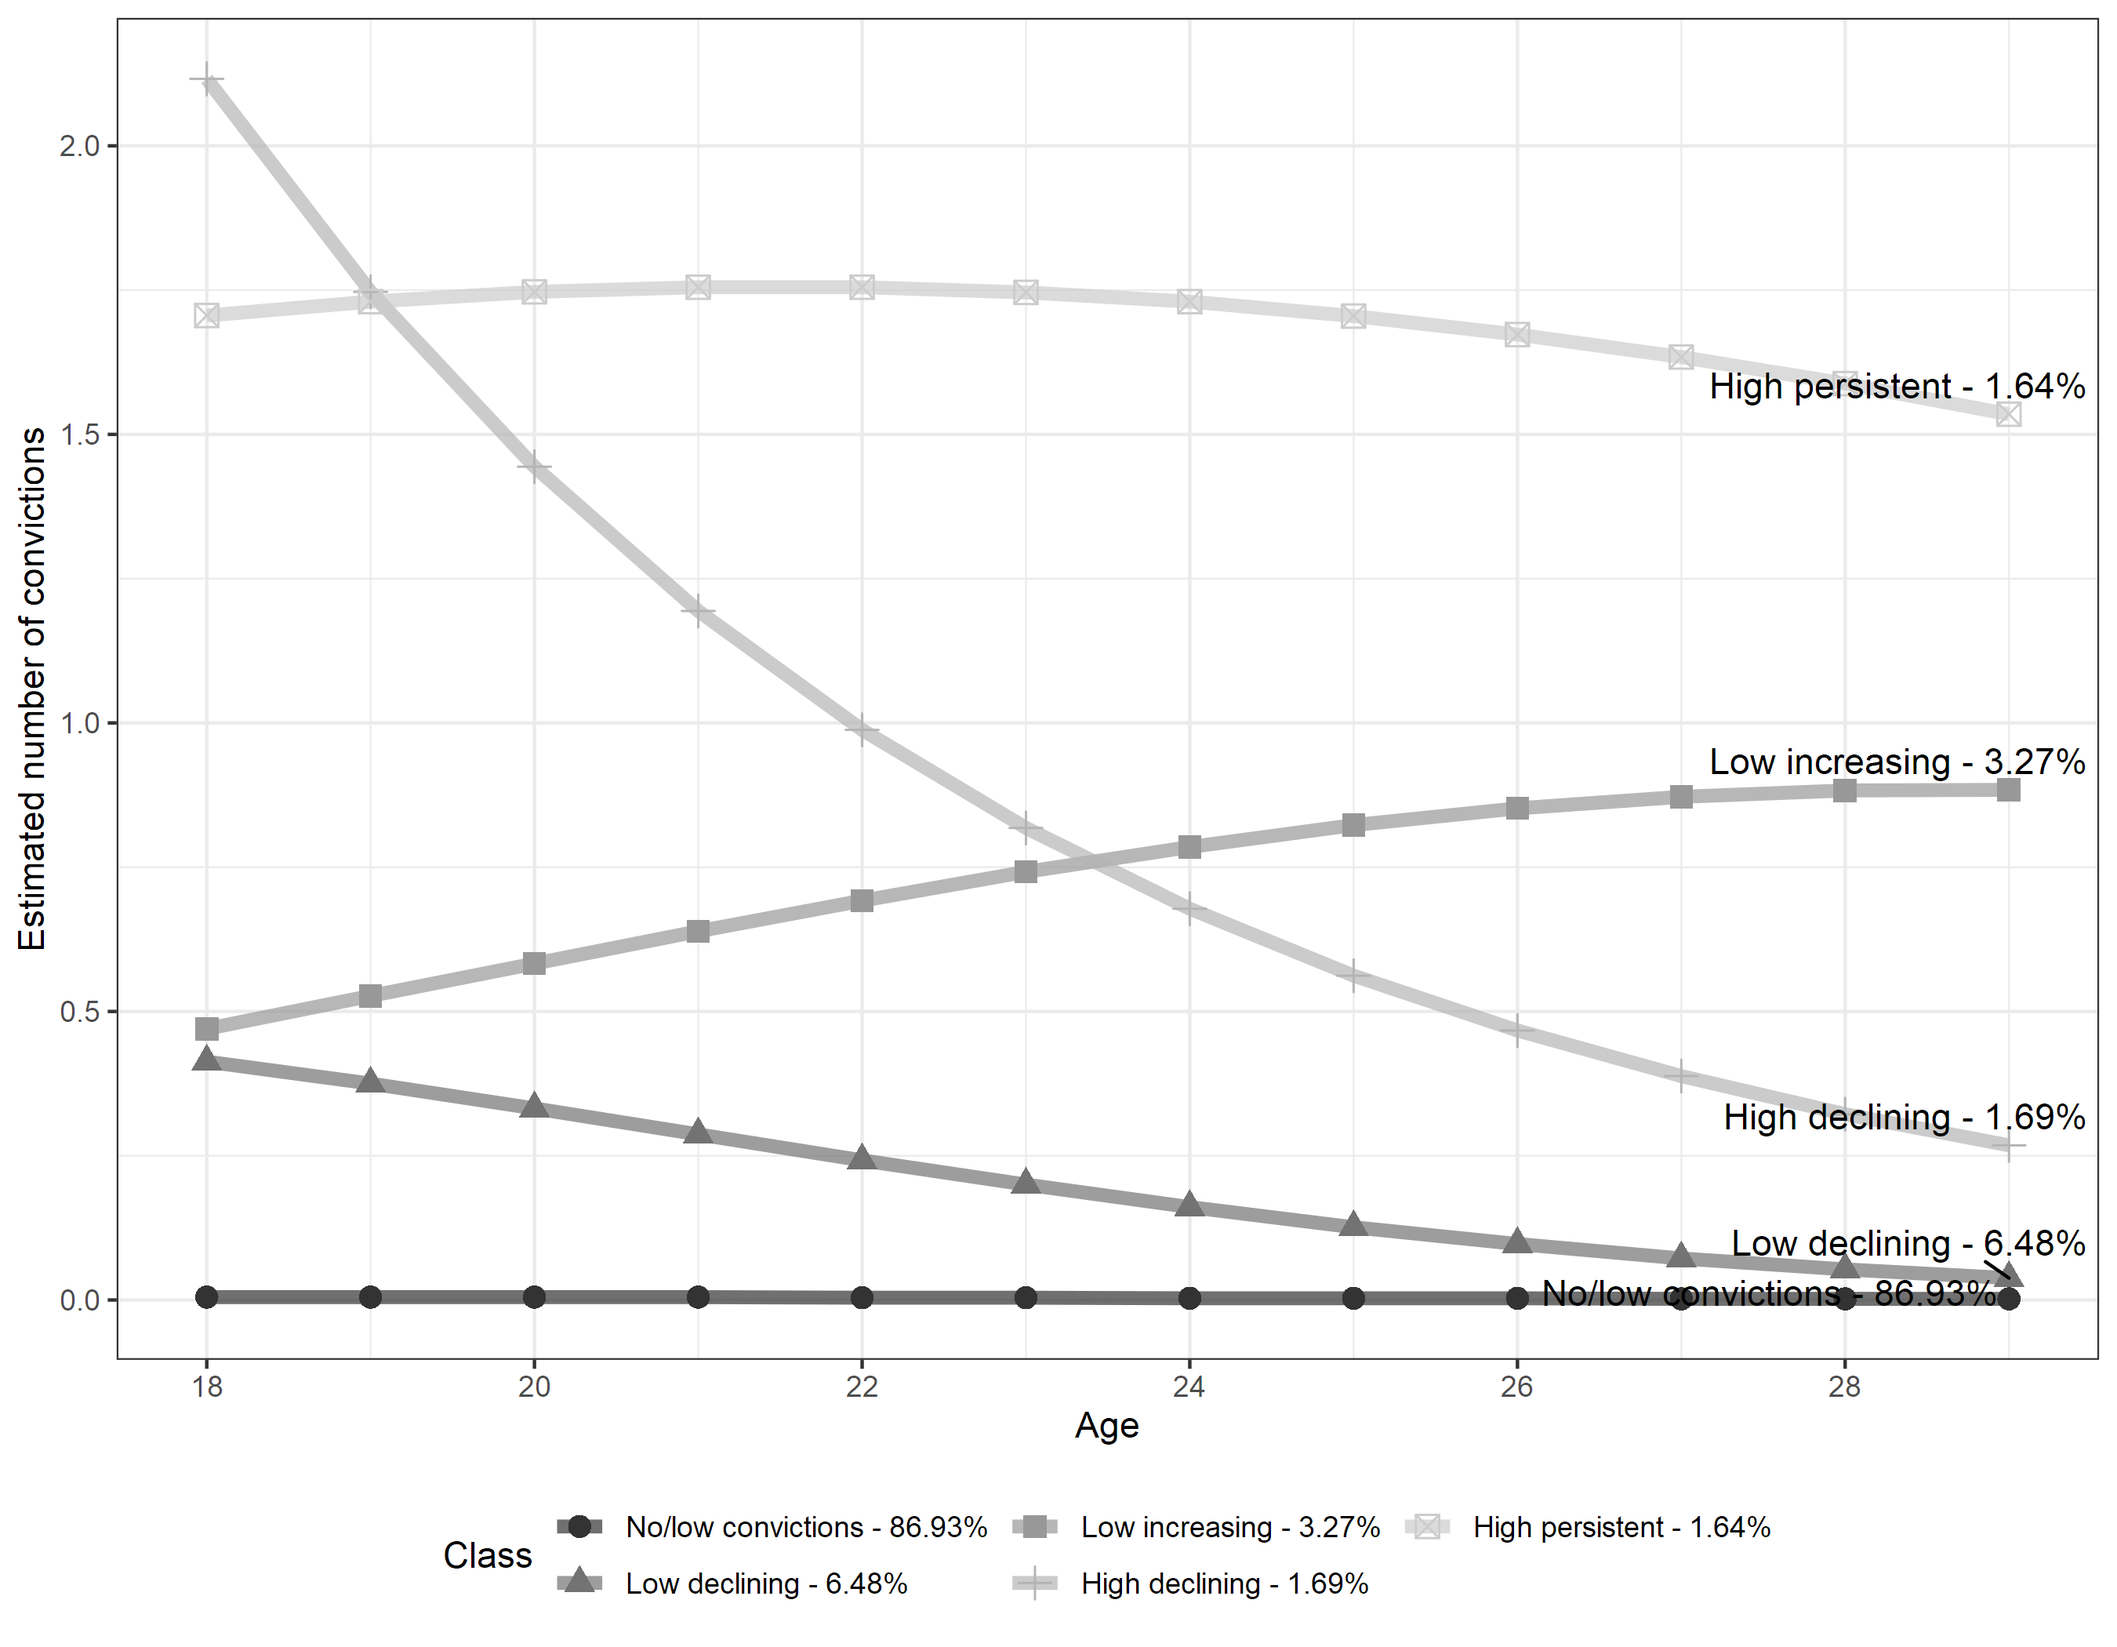
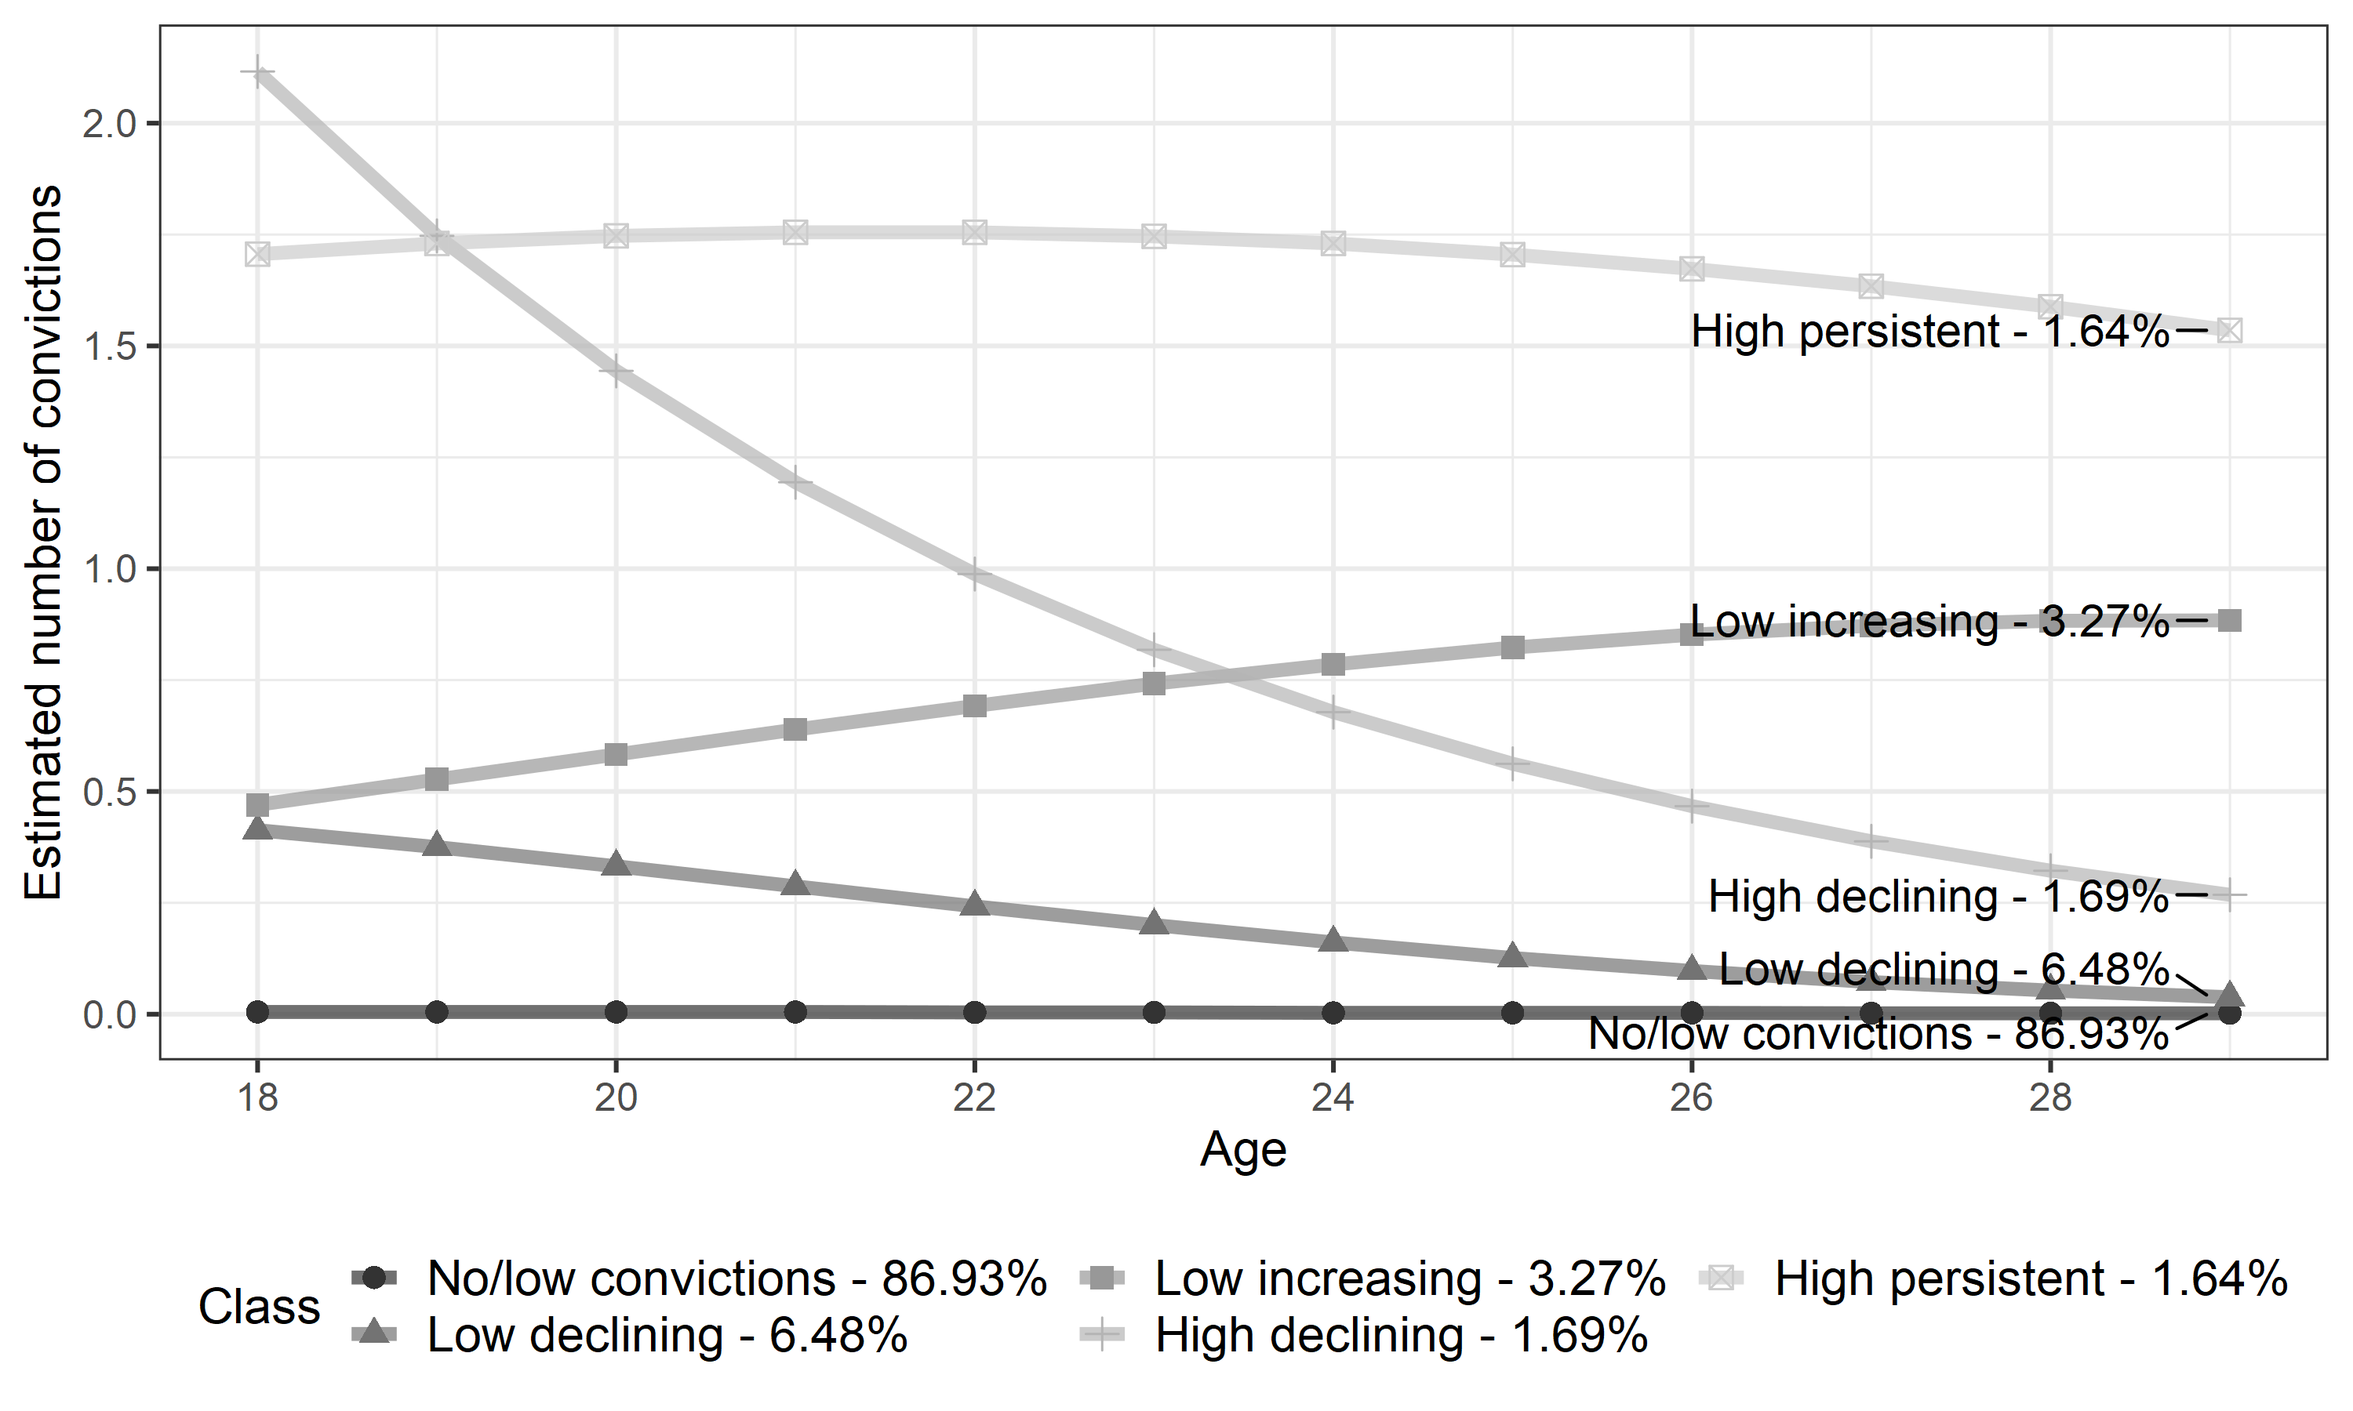
update figs

diff --git a/docs/index.html b/docs/index.html
@@ -15,10 +15,19 @@
 
 
 
-
-
 name: title
-class: center, middle, inverse
+class: center, middle, inverse, my-one-page-font
+
+&lt;style type="text/css"&gt;
+.remark-slide-content {
+    font-size: 25px;
+    padding: 1em 4em 1em 4em;
+}
+.my-one-page-font {
+  font-size: 20px;
+}
+&lt;/style&gt;    
+
 
 # Exploring inequalities in the impact of childhood system contact on adult criminal conviction trajectories by sex and Indigenous status: Evidence from an Australian data linkage project
 
@@ -32,60 +41,130 @@ European Society of Criminology, 2020-09-11
 
 ![](https://www.understanding-inequalities.ac.uk/sites/all/themes/theme935/logo.png)&lt;!-- --&gt;
 
+
+
 ---
 # Research background
-1. A key question in DLCC is try to understand how childhood experiences relate to adult convictions patterns
-2. One key insight from childhood effects literature is that childhood experiences can have cumulative effects on adult convictions
-  i. See in particular the cumulative effect of contact with both youth justice and child protection systems in childhood. 'Crossover children' (Baidawi, 2020:280) who are involved with both youth justice _and_ child projection have "earlier police involvement and more serious criminal justice sanctions"
-1. A second key insight is thatt sex and race/ethnicity are key factors relating to people's criminal justice outcomes, and that the ways in which childhood experiences shape adult outcomes may vary by sex and race/ethnicity. Broidy et al. (2015:145) " theory and research in developmental and life course criminology should pay more attention to the ways that race/ethnicity intersect with gender to frame the life course experiences of offenders... developmental and life course models need to highlight not just the operant developmental dynamics across key life stages or the relevant, age-graded risk and protective factors at play, but also the ways in which gender and race/ethnicity condition these processes both independently and jointly"
-
+1. How do __childhood experiences__ affect __adult convictions__ histories?
+2. Key insight one: childhood experiences affect adult convictions __cumulatively__. Our focus is on 'Crossover children' [(Baidawi, 2020:280)](https://www.tandfonline.com/doi/full/10.1080/0312407X.2019.1686765) who are involved with both youth justice __and__ child projection
+3. Key insight two: the ways in which childhood experiences shape adult outcomes may __vary by both sex and race/ethnicity__ [(Broidy et al. 2015:145)](https://link.springer.com/article/10.1007/s40865-015-0008-z)
 
 ---
 
-# Research question
-How do the cumulative effect of youth justice and child welfare on adults convictions trajectories vary by sex and race/ethnicity?
+class: center, inverse
+
+# How do the cumulative effects of youth justice and child welfare contact on adult convictions trajectories vary by sex and race/ethnicity?
 
 
 ---
 # Data
-- Queensland Cross-sector Research Collaboration (QCRC)
-- Linked data sources from different administrative departments in Queensland, Australia:
+- Comes from __Queensland Cross-sector Research Collaboration__ (QCRC)
+- __Linked data sources__ from different administrative departments in Queensland, Australia:
   - Youth justice
   - Adult justice
   - Child protection
   - Birth register 
   - Marriages
-
+- Cohorts registered born in Queensland in 1983 and 1984, followed to age 29
 
 ---
+class: my-one-page-font
+
 # Measures
 
-```
-## # A tibble: 12 x 4
-##    Variable               Level               Count Proportion
-##    &lt;chr&gt;                  &lt;chr&gt;               &lt;dbl&gt;      &lt;dbl&gt;
-##  1 "Adult conviction"     "Convicted"         16802      20.2 
-##  2 ""                     "Not convicted"     66569      79.8 
-##  3 "Indigenous Status"    "(ever) Indigenous"  4821       0.06
-##  4 ""                     "Non-Indigenous"    78541       0.94
-##  5 "Sex"                  "Female"            40416       0.48
-##  6 ""                     "Male"              42946       0.52
-##  7 "Police Diversion"     "1"                  9264       0.11
-##  8 "Abuse/Neglect"        "1"                  3515       0.04
-##  9 "Youth Justice Charge" "1"                  3306       0.04
-## 10 "OOHC Placement"       "1"                   784       0.01
-## 11 "Youth Detention"      "1"                   469       0.01
-## 12 "Total"                ""                  83371       1
-```
+&lt;table&gt;
+ &lt;thead&gt;
+  &lt;tr&gt;
+   &lt;th style="text-align:left;"&gt; Variable &lt;/th&gt;
+   &lt;th style="text-align:left;"&gt; Level &lt;/th&gt;
+   &lt;th style="text-align:right;"&gt; Count &lt;/th&gt;
+   &lt;th style="text-align:right;"&gt; Proportion &lt;/th&gt;
+  &lt;/tr&gt;
+ &lt;/thead&gt;
+&lt;tbody&gt;
+  &lt;tr&gt;
+   &lt;td style="text-align:left;"&gt; Adult conviction &lt;/td&gt;
+   &lt;td style="text-align:left;"&gt; Convicted &lt;/td&gt;
+   &lt;td style="text-align:right;"&gt; 16802 &lt;/td&gt;
+   &lt;td style="text-align:right;"&gt; 20.20 &lt;/td&gt;
+  &lt;/tr&gt;
+  &lt;tr&gt;
+   &lt;td style="text-align:left;"&gt;  &lt;/td&gt;
+   &lt;td style="text-align:left;"&gt; Not convicted &lt;/td&gt;
+   &lt;td style="text-align:right;"&gt; 66569 &lt;/td&gt;
+   &lt;td style="text-align:right;"&gt; 79.80 &lt;/td&gt;
+  &lt;/tr&gt;
+  &lt;tr&gt;
+   &lt;td style="text-align:left;"&gt; Indigenous Status &lt;/td&gt;
+   &lt;td style="text-align:left;"&gt; Indigenous (ever) &lt;/td&gt;
+   &lt;td style="text-align:right;"&gt; 4821 &lt;/td&gt;
+   &lt;td style="text-align:right;"&gt; 0.06 &lt;/td&gt;
+  &lt;/tr&gt;
+  &lt;tr&gt;
+   &lt;td style="text-align:left;"&gt;  &lt;/td&gt;
+   &lt;td style="text-align:left;"&gt; Non-Indigenous &lt;/td&gt;
+   &lt;td style="text-align:right;"&gt; 78541 &lt;/td&gt;
+   &lt;td style="text-align:right;"&gt; 0.94 &lt;/td&gt;
+  &lt;/tr&gt;
+  &lt;tr&gt;
+   &lt;td style="text-align:left;"&gt; Sex &lt;/td&gt;
+   &lt;td style="text-align:left;"&gt; Female &lt;/td&gt;
+   &lt;td style="text-align:right;"&gt; 40416 &lt;/td&gt;
+   &lt;td style="text-align:right;"&gt; 0.48 &lt;/td&gt;
+  &lt;/tr&gt;
+  &lt;tr&gt;
+   &lt;td style="text-align:left;"&gt;  &lt;/td&gt;
+   &lt;td style="text-align:left;"&gt; Male &lt;/td&gt;
+   &lt;td style="text-align:right;"&gt; 42946 &lt;/td&gt;
+   &lt;td style="text-align:right;"&gt; 0.52 &lt;/td&gt;
+  &lt;/tr&gt;
+  &lt;tr&gt;
+   &lt;td style="text-align:left;"&gt; Police Diversion &lt;/td&gt;
+   &lt;td style="text-align:left;"&gt; 1 &lt;/td&gt;
+   &lt;td style="text-align:right;"&gt; 9264 &lt;/td&gt;
+   &lt;td style="text-align:right;"&gt; 0.11 &lt;/td&gt;
+  &lt;/tr&gt;
+  &lt;tr&gt;
+   &lt;td style="text-align:left;"&gt; Abuse/Neglect &lt;/td&gt;
+   &lt;td style="text-align:left;"&gt; 1 &lt;/td&gt;
+   &lt;td style="text-align:right;"&gt; 3515 &lt;/td&gt;
+   &lt;td style="text-align:right;"&gt; 0.04 &lt;/td&gt;
+  &lt;/tr&gt;
+  &lt;tr&gt;
+   &lt;td style="text-align:left;"&gt; Youth Justice Charge &lt;/td&gt;
+   &lt;td style="text-align:left;"&gt; 1 &lt;/td&gt;
+   &lt;td style="text-align:right;"&gt; 3306 &lt;/td&gt;
+   &lt;td style="text-align:right;"&gt; 0.04 &lt;/td&gt;
+  &lt;/tr&gt;
+  &lt;tr&gt;
+   &lt;td style="text-align:left;"&gt; OOHC Placement &lt;/td&gt;
+   &lt;td style="text-align:left;"&gt; 1 &lt;/td&gt;
+   &lt;td style="text-align:right;"&gt; 784 &lt;/td&gt;
+   &lt;td style="text-align:right;"&gt; 0.01 &lt;/td&gt;
+  &lt;/tr&gt;
+  &lt;tr&gt;
+   &lt;td style="text-align:left;"&gt; Youth Detention &lt;/td&gt;
+   &lt;td style="text-align:left;"&gt; 1 &lt;/td&gt;
+   &lt;td style="text-align:right;"&gt; 469 &lt;/td&gt;
+   &lt;td style="text-align:right;"&gt; 0.01 &lt;/td&gt;
+  &lt;/tr&gt;
+  &lt;tr&gt;
+   &lt;td style="text-align:left;"&gt; Total &lt;/td&gt;
+   &lt;td style="text-align:left;"&gt;  &lt;/td&gt;
+   &lt;td style="text-align:right;"&gt; 83371 &lt;/td&gt;
+   &lt;td style="text-align:right;"&gt; 1.00 &lt;/td&gt;
+  &lt;/tr&gt;
+&lt;/tbody&gt;
+&lt;/table&gt;
 
-- Based on current best-practice, if a person is listed as Indigenous in any of the datasets in QCRC we code them as Indigenous here.
-- Using IS as an umbrella term obscures the diversity within IS - there are more than 500 Aboriginal and Torres-Strait Islander nations in Australia as a whole (Walter and Andersen 2013). Unfortunately this is unavoidable in our analysis as we have to work with the categories included in the data.
 
 ---
 # Methods 
-- Make convictions trajectory groups with Latent Class Growth Curves (Nagin and Land 1993)
-- Fit multinomial logistic regression model to estimate association between our independent variables and convictions class, using ‘intersectional’ specification (Bell et al. 2019) that is flexible enough to allow interactions between sex, IS and all our childhood factors when the data warrants them, but is conservative, and so stable, when data is very sparse
-- Interpret model results through Average Predictive Comparison (Gelman and Pardoe 2007) which give estimated probability of a being in a particular convictions class, conditional different configurations of our independent variables
+Three steps:
+
+1. Make __convictions trajectory groups__ with Latent Class Growth Curves [(Nagin and Land 1993)](https://onlinelibrary.wiley.com/doi/abs/10.1111/j.1745-9125.1993.tb01133.x)
+2. Fit "intersectional" [(Bell et al. 2019)](https://psycnet.apa.org/fulltext/2019-30571-005.html) __multinomial logistic regression__ model to estimate association between our independent variables and convictions class
+3. Interpret model results through __estimated probability of convictions class membersip__, conditional different configurations of our independent variables (i.e. Average Predictive Comparisons, [Gelman and Pardoe 2007](https://onlinelibrary.wiley.com/doi/full/10.1111/j.1467-9531.2007.00181.x))
 
 
 ---
@@ -96,7 +175,7 @@ class: center, middle, inverse
 ---
 
 # Estimated conviction trajectories
-&lt;img src="https://raw.githubusercontent.com/benmatthewsed/esc-2020/master/docs/figures/y18_trajectories.png" width="78%" style="display: block; margin: auto;" /&gt;
+&lt;img src="https://raw.githubusercontent.com/benmatthewsed/esc-2020/master/docs/figures/y18_trajectories.png" width="60%" style="display: block; margin: auto;" /&gt;
 
 
 ---
@@ -109,26 +188,52 @@ class: center, middle, inverse
 ---
 
 # Discussion
-- Risk factors’ relationships to the probabilities of trajectory membership differs by sex and Indigenous status
-- Non-IS women have the largest decrease in probability of no/low class membership in presence of all childhood contacts
-- IS men have the smallest decrease in probability of no/low class membership in presence of all childhood contacts
-- This is partly because of 'floor effects' - IS men already have a lower probability of being in the no/low convictions trajectory group, so they only have so much probability to 'lose'
-- … but the cumulative effect of these risk factors lead to similar outcomes by sex`*`IS, despite the very different estimated baselines by sex`*`IS
+- Childhood experiences' relationships with the probability of adult convictions trajectories __do seem to differ by sex and Indigenous status__:
+   - Non-IS men and women have the largest decrease in probability of no/low class membership in presence of all childhood contacts
+   - In contrast IS men have the smallest decrease in probability of no/low class membership in presence of all childhood contacts
+- This is partly because of __'floor effects'__
+- … but the __cumulative effect__ of these risk factors leads to __similar outcomes by sex`*`IS__, despite the very __different baselines__ by sex`*`IS
 
 ---
 # Concluding thoughts
-
-- From this model we can derive other quantities of interest: for example, we could estimate the 'extra' effect of being a 'cross-over child' by estimating convictions trajectory probabilities under youth justice and child welfare contact compared to the effects of YJ and CW alone
-- Extrapolating back from our results to the population as a whole - some configurations of our independent variables are very rare
-- What does IS measure here? Low baseline probability of no/low convictions for IS men. This is not deficit of IS men - also reflects advantages of non-IS men and women and history of colonialism (Walter and Andersen 2013) as well as policing practices, poverty etc. 
+- This is a first step: from this model we can derive __other quantities of interest__
+   - Look at __other__ combinations of __childhood factors__
+   - Expand comparisons across __different developmental trajectories__
+- What does IS measure here? Must __avoid deficit interpretation__ [(Walter and Andersen 2013)](https://www.taylorfrancis.com/books/e/9781315426570)
 
 ---
+name: thanks
+class: center, middle, inverse, my-one-page-font
 
-# Thank you! 
+# Thank you!
+
+Thank you to Heidi Perrett at Griffith University for facilitating data access
+
+Ben Matthews&lt;sup&gt;1&lt;/sup&gt;, Susan McVie&lt;sup&gt;1&lt;/sup&gt;, Carleen Thompson&lt;sup&gt;2&lt;/sup&gt; and Anna Stewart&lt;sup&gt;2&lt;/sup&gt;
+
+
+European Society of Criminology, 2020-09-11
+
+
+&lt;sup&gt;1&lt;/sup&gt;University of Edinburgh
+&lt;sup&gt;2&lt;/sup&gt;Griffith University
+
+
+
+![](https://www.understanding-inequalities.ac.uk/sites/all/themes/theme935/logo.png)&lt;!-- --&gt;
+
+`@benmatthewsed` | `@U_Inequalities`
+
+---
+name: bonus
+class: center, middle, inverse
+
+# Bonus slides
+
 
 ---
 # Prevalence of independent variables by sex and IS
-&lt;img src="https://raw.githubusercontent.com/benmatthewsed/esc-2020/master/docs/figures/iv_proportions.png" width="78%" style="display: block; margin: auto;" /&gt;
+&lt;img src="https://raw.githubusercontent.com/benmatthewsed/esc-2020/master/docs/figures/iv_proportions.png" width="50%" style="display: block; margin: auto;" /&gt;
     </textarea>
 <style data-target="print-only">@media screen {.remark-slide-container{display:block;}.remark-slide-scaler{box-shadow:none;}}</style>
 <script src="https://remarkjs.com/downloads/remark-latest.min.js"></script>
